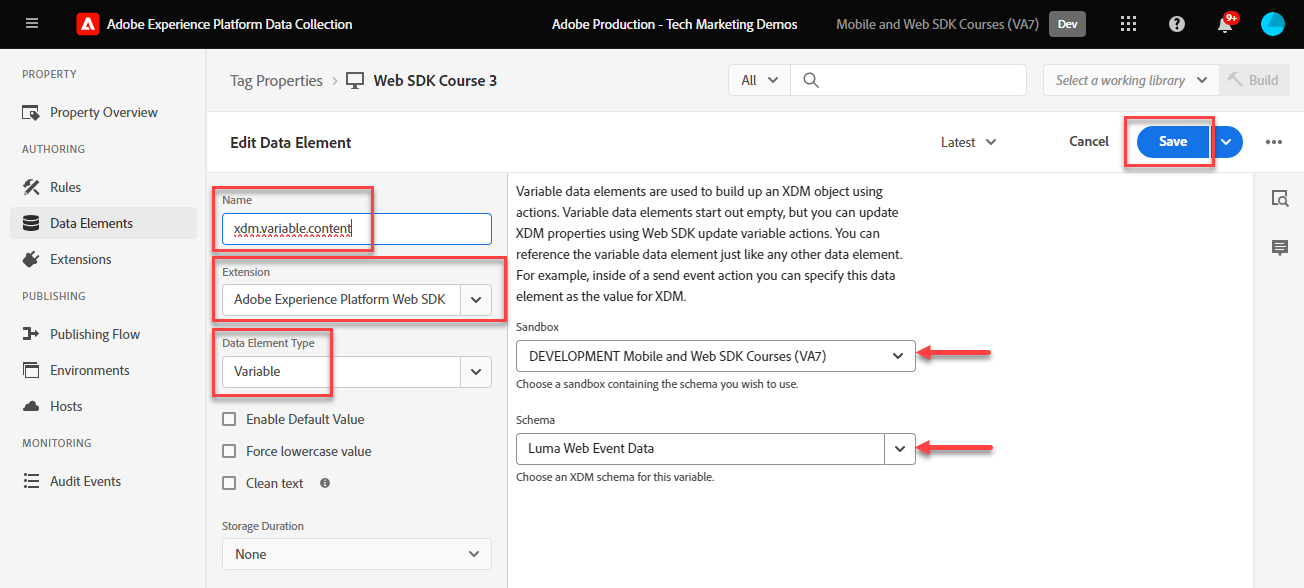
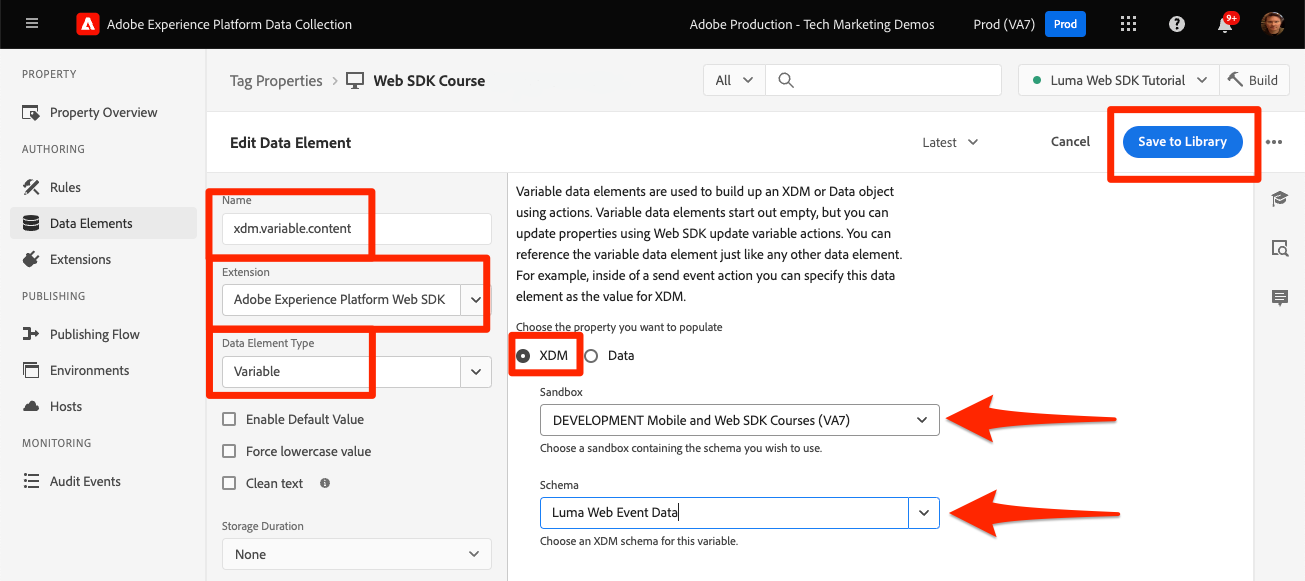
first set of updates for data object

diff --git a/help/tutorial-web-sdk/create-data-elements.md b/help/tutorial-web-sdk/create-data-elements.md
@@ -250,29 +250,41 @@ Create these additional data elements by following the same steps:
 >
 >The [!UICONTROL JavaScript variable] data element type treats array references as dots instead of brackets, so referencing the username data element as `digitalData.user[0].profile[0].attributes.username` **will not work**.
 
-## Create Variable data element
+## Create Variable data elements for XDM and data objects
 
-After you create the data elements, map them to the XDM using the **[!UICONTROL Variable]** data element that defines the schema used for the XDM object. This object should conform to the XDM schema you created during the [Configure a schema](configure-schemas.md) lesson. 
+The data elements you just created will be used to build an XDM object (for Platform applications) and a data object (for Analytics, Target, and Audience Manager). These objects have their own special data elements called **[!UICONTROL Variable]** data elements which are very easy to create. 
 
-To create the Variable data element:
+To create the Variable data element for XDM, you tie it to the schema you created in the [Configure a schema](configure-schemas.md) lesson:
 
 1. Select **[!UICONTROL Add Data element]**
 1. Name your Data Element `xdm.variable.content`. It is recommended you prefix with "xdm" the Data Elements specific to XDM to better organize your tag property
 1. Select the **[!UICONTROL Adobe Experience Platform Web SDK]** as the **[!UICONTROL Extension]**
 1. Select the **[!UICONTROL Variable]** as the **[!UICONTROL Data Element Type]**
+1. Select **[!UICONTROL XDM]** as the **[!UICONTROL property]**
 1. Select the appropriate Experience Platform **[!UICONTROL Sandbox]**
 1. Select the appropriate **[!UICONTROL Schema]**, in this case `Luma Web Event Data`
 1. Select **[!UICONTROL Save]**
 
-    ![Variable data element](assets/analytics-tags-data-element-xdm-variable.png)
+    ![Variable data element for XDM](assets/analytics-tags-data-element-xdm-variable.png)
+
+Next, create the Variable data element for your data object:
+
+1. Select **[!UICONTROL Add Data element]**
+1. Name your Data Element `data.variable`. It is recommended you prefix with "data" the Data Elements specific to data object to better organize your tag property
+1. Select the **[!UICONTROL Adobe Experience Platform Web SDK]** as the **[!UICONTROL Extension]**
+1. Select the **[!UICONTROL Variable]** as the **[!UICONTROL Data Element Type]**
+1. Select **[!UICONTROL data]** as the **[!UICONTROL property]**
+1. Select **[!UICONTROL Save]**
+
+    ![Variable data element for data object](assets/data-element-data-variable.png.png)
 
 
 At the end of these steps, you should have the following data elements created:
 
 |Core Extension Data Elements | Platform Web SDK Extension Data Elements|
 -----------------------------|-------------------------------
-| `cart.orderId` | `xdm.variable.content` |
-| `cart.productInfo`| |
+| `cart.orderId` | `data.variable` |
+| `cart.productInfo`| `xdm.variable.content` |
 | `cart.productInfo.purchase`| |
 | `page.pageInfo.hierarchie1` | |
 | `page.pageInfo.pageName` | |
@@ -285,7 +297,7 @@ At the end of these steps, you should have the following data elements created:
 
 >[!TIP]
 >
->In a future [Create tag rules](create-tag-rule.md) lesson, you learn how the **[!UICONTROL Variable]** data element allows you to stack multiple rules in tags using the **[!UICONTROL Update Variable Action type]**.
+>In a future [Create tag rules](create-tag-rule.md) lesson, you learn how the **[!UICONTROL Variable]** data elements allow you to stack multiple rules in tags using the **[!UICONTROL Update Variable Action type]**.
 
 With these data elements in place, you are ready to start sending data to Platform Edge Network with a tags rule. But first, learn about collecting identities with Web SDK. 
 

diff --git a/help/tutorial-web-sdk/configure-schemas.md b/help/tutorial-web-sdk/configure-schemas.md
@@ -13,6 +13,10 @@ Experience Data Model (XDM) schemas are the building blocks, principles, and bes
 
 Platform Web SDK uses your schema to standardize your web event data, send it to the Platform Edge Network, and ultimately forward the data to any Experience Cloud applications configured in the datastream. This step is critical as it defines a standard data model required for ingesting customer experience data into Experience Platform and enables downstream services and applications built on these standards. 
 
+>[!NOTE]
+>
+>An XDM schema is _not required_ to implement Adobe Analytics, Adobe Target, or Adobe Audience Manager with Web SDK (data can be passed in the `data` object instead of the `xdm` object as you will see later). An XDM schema is required for the most performant implementations of Platform-native applications like Journey Optimizer, Real-Time Customer Data Platform, Customer Journey Analytics. While you may decide not to use an XDM schema in your own implementation, you are expected to do so as part of this tutorial.
+
 ## Why model the data?
 
 Businesses have their own language for communicating about their domain. Car dealerships deal with makes, models, and cylinders. Airlines deal with flight numbers, class of service, and seating assignments. Some of these terms are unique to a specific company, some are shared among an industry vertical, and some are shared by almost all businesses. For terms that are shared among an industry vertical or even broader, you can start doing powerful things with your data when you name and structure these terms in a common way.
@@ -105,8 +109,7 @@ When possible, it is recommended to use existing field groups and adhere to a pr
 > 
 >In this exercise, you add the recommended pre-defined field groups for web data collection: _**[!UICONTROL AEP Web SDK ExperienceEvent]**_ and _**[!UICONTROL Consumer Experience Event]**_.
 >
->
-> If you are only implementing **Adobe Analytics** with Web SDK and not sending any data to **Experience Platform**, use the [!UICONTROL Adobe Analytics ExperienceEvent Template] field group to define the XDM schema. This is used in the [Setup Analytics](setup-analytics.md) lesson.  
+
 
 1. In the **[!UICONTROL Field groups]** section, select **[!UICONTROL Add]**
 

diff --git a/help/tutorial-web-sdk/configure-identities.md b/help/tutorial-web-sdk/configure-identities.md
@@ -15,6 +15,10 @@ The [Adobe Experience Platform Identity Service](https://experienceleague.adobe.
 
 >[!NOTE]
 >
+>A custom identity namespace is _not required_ to implement Adobe Analytics, Adobe Target, or Adobe Audience Manager with Web SDK (authenticated identities can be passed in the `data` object instead of the `xdm` object as you will see later). Identity namespaces are required for Platform-native applications like Journey Optimizer, Real-Time Customer Data Platform, Customer Journey Analytics. While you may decide not to use an identity namespace in your own implementation, you are expected to do so as part of this tutorial.
+
+>[!NOTE]
+>
 > For demonstration purposes, the exercises in this lesson have you capture the identity details of a fictional customer logged into the [Luma Demo Site](https://luma.enablementadobe.com/content/luma/us/en.html) using the credentials, **user: `test@adobe.com` / password: test**. 
 
 ## Learning objectives
